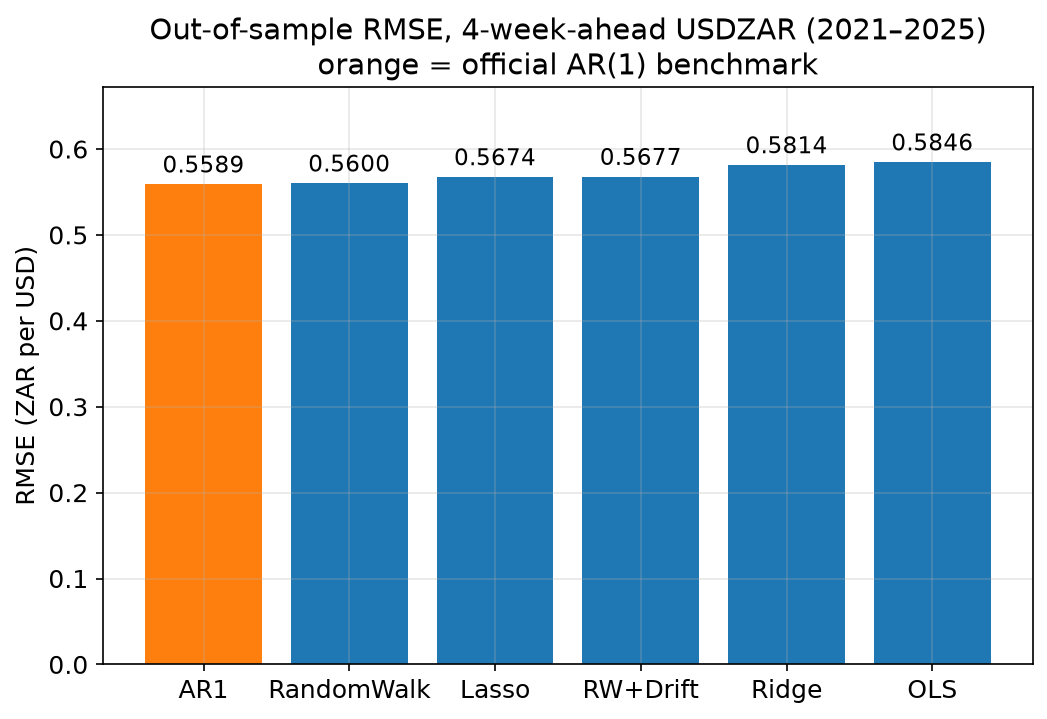
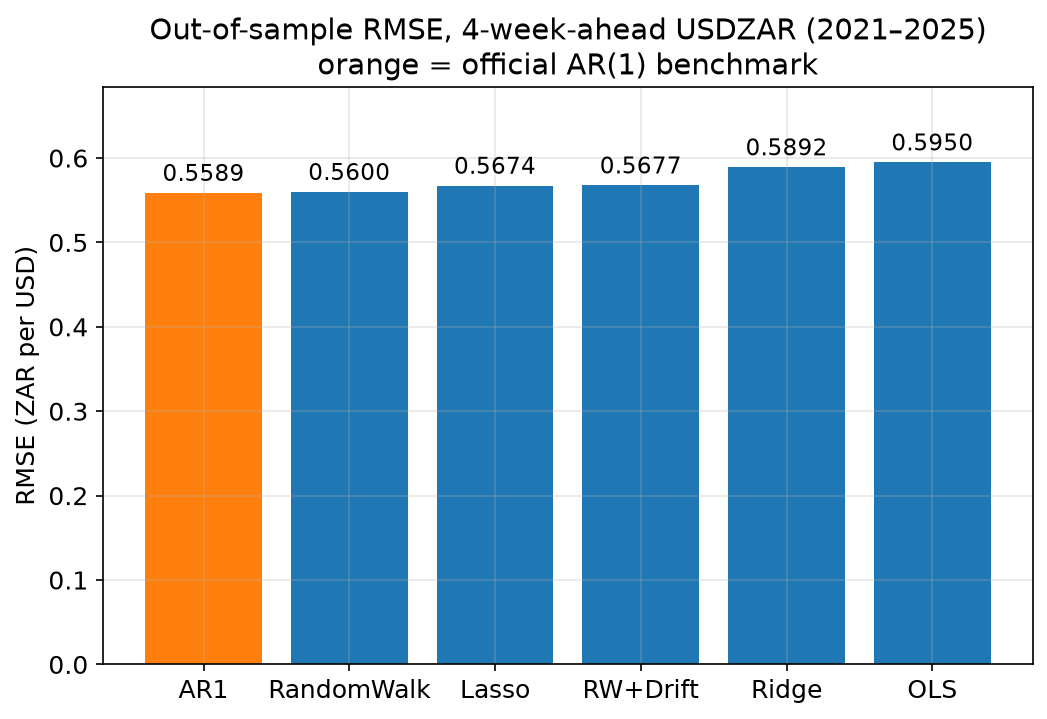
platinum dataset added

diff --git a/src/data/local_csv.py b/src/data/local_csv.py
@@ -1,0 +1,63 @@
+"""Local CSV series — the third data source next to EconData and FRED.
+
+WHY this exists: the SARB MARKET_RATES dataflow has no platinum series and
+FRED carries no free daily platinum history, so the team hand-downloaded a
+daily USD/troy-ounce CSV. This module normalises such files into the same
+data/raw/<name>.parquet shape the API clients produce, so build_dataset.py
+treats all three sources identically and stays source-agnostic.
+
+Conversion runs during the `fetch` stage. The source CSVs live in data/raw/
+and ARE committed to git (unlike the parquet cache) — they cannot be
+re-downloaded by code, so the repo must carry them.
+"""
+from __future__ import annotations
+
+import pandas as pd
+
+from src.config import DATA_RAW, LOCAL_CSV_SERIES
+
+
+def convert_local_csvs(force: bool = False) -> dict[str, pd.DataFrame]:
+    """Normalise each configured CSV into data/raw/<name>.parquet.
+
+    Expected file shape: two columns, date then value (header names are
+    ignored on purpose — export sites name them inconsistently). Dates are
+    parsed as US-style MM/DD/YYYY, which we verified against unambiguous
+    rows like 07/22/2026 in the platinum file.
+    """
+    out: dict[str, pd.DataFrame] = {}
+    for name, filename in LOCAL_CSV_SERIES.items():
+        src = DATA_RAW / filename
+        dst = DATA_RAW / f"{name}.parquet"
+        if not src.exists():
+            raise FileNotFoundError(
+                f"Local CSV {src} for series {name!r} is missing — it should "
+                "be committed in the repo (see src/data/local_csv.py)."
+            )
+        if force or not dst.exists():
+            # utf-8-sig strips the BOM that spreadsheet exports often prepend.
+            raw = pd.read_csv(src, encoding="utf-8-sig")
+            tidy = pd.DataFrame(
+                {
+                    "date": pd.to_datetime(raw.iloc[:, 0], format="%m/%d/%Y"),
+                    # coerce: export files sometimes hold blanks or "." for
+                    # market holidays — those rows are dropped, matching how
+                    # the API clients treat missing observations.
+                    "value": pd.to_numeric(raw.iloc[:, 1], errors="coerce"),
+                }
+            ).dropna().sort_values("date").reset_index(drop=True)
+            # Prices of zero are data errors, not prices (the platinum file
+            # has one: 2024-10-25 = 0.0), and they poison log-features with
+            # -inf. Treat non-positive values as missing — the Friday grid
+            # then carries the previous day's price forward, same as any
+            # other missing observation.
+            tidy = tidy[tidy["value"] > 0].reset_index(drop=True)
+            tidy.to_parquet(dst, index=False)
+            print(f"cached {name} <- {filename} ({len(tidy)} obs, "
+                  f"{tidy['date'].iloc[0].date()}..{tidy['date'].iloc[-1].date()})")
+        out[name] = pd.read_parquet(dst)
+    return out
+
+
+if __name__ == "__main__":
+    convert_local_csvs(force=True)

diff --git a/src/config.py b/src/config.py
@@ -82,6 +82,27 @@ FRED_SERIES: dict[str, str] = {
     "vix": "VIXCLS",         # CBOE VIX (global risk appetite)
     "us_3m": "DGS3MO",       # US 3-month Treasury yield
     "brent": "DCOILBRENTEU", # Brent crude (SA is a large oil importer)
+    # Credit-stress gauge. We WANTED the ICE BofA HY spread (BAMLH0A0HYM2),
+    # but FRED now only serves its trailing ~3 years (ICE licensing), which
+    # cannot support a backtest from 2021. Substitute with the same signal
+    # built from full-history series: Moody's Baa corporate yield minus the
+    # 10y Treasury = the classic daily credit spread (data back to the 80s).
+    # EM currencies sell off when credit spreads blow out, and credit often
+    # moves on stress that VIX (an equity measure) misses.
+    "baa": "DBAA",     # Moody's seasoned Baa corporate bond yield, daily
+    "us_10y": "DGS10", # US 10y Treasury yield, daily
+}
+
+# ---------------------------------------------------------------------------
+# Local CSV series (hand-downloaded, committed to the repo — no API)
+# ---------------------------------------------------------------------------
+# Platinum: SA's biggest PGM export, but MARKET_RATES has no platinum series
+# and FRED no free daily history, so the team downloaded a daily USD per
+# troy ounce CSV (1969–present). Files live in data/raw/ and are converted
+# to the parquet cache by src/data/local_csv.py during the fetch stage.
+# TODO: record the download URL here for provenance (judges will ask).
+LOCAL_CSV_SERIES: dict[str, str] = {
+    "platinum": "plt_per_troy_ounce.csv",
 }
 
 # ---------------------------------------------------------------------------
@@ -97,10 +118,11 @@ TARGET_COL = "log_usdzar"
 # the outcome is created when models pair X_t with y_{t+h} during fit.
 FEATURE_COLS: list[str] = [
     "d4_log_gold",      # 4-week log change in gold (SA's top export)
-    # (d4_log_platinum dropped — no platinum series in MARKET_RATES)
+    "d4_log_platinum",  # 4-week log change in platinum (SA's top PGM export; local CSV)
     "d4_log_brent",     # 4-week log change in Brent (SA's top import)
     "d4_log_dxy",       # 4-week log change in broad USD index (global USD strength)
     "d4_vix",           # 4-week change in VIX level (risk-on/risk-off for EM FX)
+    "d4_credit",        # 4-week change in US credit spread, Baa − 10y Treasury (credit stress)
     "rate_spread",      # SA 3m rate minus US 3m rate (carry / UIP-style term)
     "mr_gap",           # log USDZAR minus its trailing 52-week mean (mean reversion)
 ]

diff --git a/src/data/build_dataset.py b/src/data/build_dataset.py
@@ -19,13 +19,14 @@ from src.config import (
     DATA_START,
     FEATURE_COLS,
     FRED_SERIES,
+    LOCAL_CSV_SERIES,
     SARB_SERIES,
     TARGET_COL,
 )
 
-# Every series the table needs, from either source. If a cache file is
+# Every series the table needs, from any source. If a cache file is
 # missing we fail loudly with instructions instead of fetching silently.
-ALL_SERIES = list(SARB_SERIES) + list(FRED_SERIES)
+ALL_SERIES = list(SARB_SERIES) + list(FRED_SERIES) + list(LOCAL_CSV_SERIES)
 
 
 def load_cached_series() -> dict[str, pd.Series]:
@@ -82,14 +83,22 @@ def add_target_and_features(df: pd.DataFrame) -> pd.DataFrame:
 
     # 4-week log changes of commodity/dollar prices: matches the 4-week
     # forecast horizon, and momentum in SA's terms-of-trade drivers is the
-    # economic story we want the models to exploit. (No platinum: the SARB
-    # MARKET_RATES dataflow has no platinum series — see config.py.)
-    for name in ("gold", "brent", "dxy"):
+    # economic story we want the models to exploit. (Platinum comes from a
+    # hand-downloaded CSV — see LOCAL_CSV_SERIES in config.py.)
+    for name in ("gold", "platinum", "brent", "dxy"):
         out[f"d4_log_{name}"] = np.log(out[name]).diff(4)
 
     # VIX is already a percentage-like index, so a simple 4-week difference
     # (not a log change) is the natural "risk appetite shifted" measure.
     out["d4_vix"] = out["vix"].diff(4)
+
+    # US credit spread (Moody's Baa yield minus 10y Treasury), in
+    # percentage points, so same treatment: 4-week difference = "did US
+    # credit stress rise or fall". WHY it belongs: credit spreads are the
+    # classic risk-off gauge for EM FX and move on stress that VIX (an
+    # equity measure) sometimes misses. (See config.py for why this stands
+    # in for the ICE BofA HY spread, which FRED truncated to ~3 years.)
+    out["d4_credit"] = (out["baa"] - out["us_10y"]).diff(4)
 
     # Carry / interest-parity term: SA short rate minus US short rate, in
     # levels because the spread itself (not its change) prices the carry.

diff --git a/run.py b/run.py
@@ -15,7 +15,9 @@ import sys
 def stage_fetch() -> None:
     from src.config import ECONDATA_DATASET_ID, SARB_SERIES
     from src.data.fred_client import fetch_fred_series
+    from src.data.local_csv import convert_local_csvs
 
+    convert_local_csvs()
     fetch_fred_series()
 
     # SARB fetch only once discovery has been done and config filled in;

diff --git a/README.md b/README.md
@@ -25,10 +25,13 @@ Everything below is built, tested, and has already been run on real data.
       yield, Brent oil.
 - [x] All downloads **cached** as parquet files in `data/raw/` — fetch once,
       then everything runs offline.
+- [x] **Platinum via local CSV** (`data/raw/plt_per_troy_ounce.csv`,
+      daily USD/oz back to 1969) — not available from SARB or FRED, so it's
+      a hand-downloaded file converted into the same cache by
+      `src/data/local_csv.py`. *(TODO: record source URL in config.py.)*
 - [x] **Weekly Friday table** built (`data/processed/weekly.parquet`):
       812 Fridays, 2010→2026, each row = one Friday with the exchange rate
-      + 6 predictor features. (Platinum was planned but doesn't exist in
-      the SARB dataset, so it was dropped — the brief allows this.)
+      + 8 predictor features.
 
 ### Done — models (all share one simple fit/predict interface)
 - [x] **RandomWalk** — "next month = today". The classic FX benchmark.
@@ -64,8 +67,13 @@ Everything below is built, tested, and has already been run on real data.
 | RandomWalk | 0.5600 | 1.002  | n/a      |
 | Lasso      | 0.5674 | 1.015  | 46%      |
 | RW+Drift   | 0.5677 | 1.016  | 46%      |
-| Ridge      | 0.5814 | 1.040  | 46%      |
-| OLS        | 0.5846 | 1.046  | 46%      |
+| Ridge      | 0.5892 | 1.054  | 45%      |
+| OLS        | 0.5950 | 1.065  | 45%      |
+
+(8 features incl. the US credit spread and platinum. A consistent pattern:
+every feature we add leaves Lasso *exactly* unchanged — it shrinks the
+newcomers to zero — while unregularised OLS, forced to fit them, drifts
+further behind AR1. Textbook regularisation, live on our own data.)
 
 Nothing beats AR(1) overall — this is the famous Meese–Rogoff result and it
 is a *defensible* finding, not a failure. Our best story for the judges:
